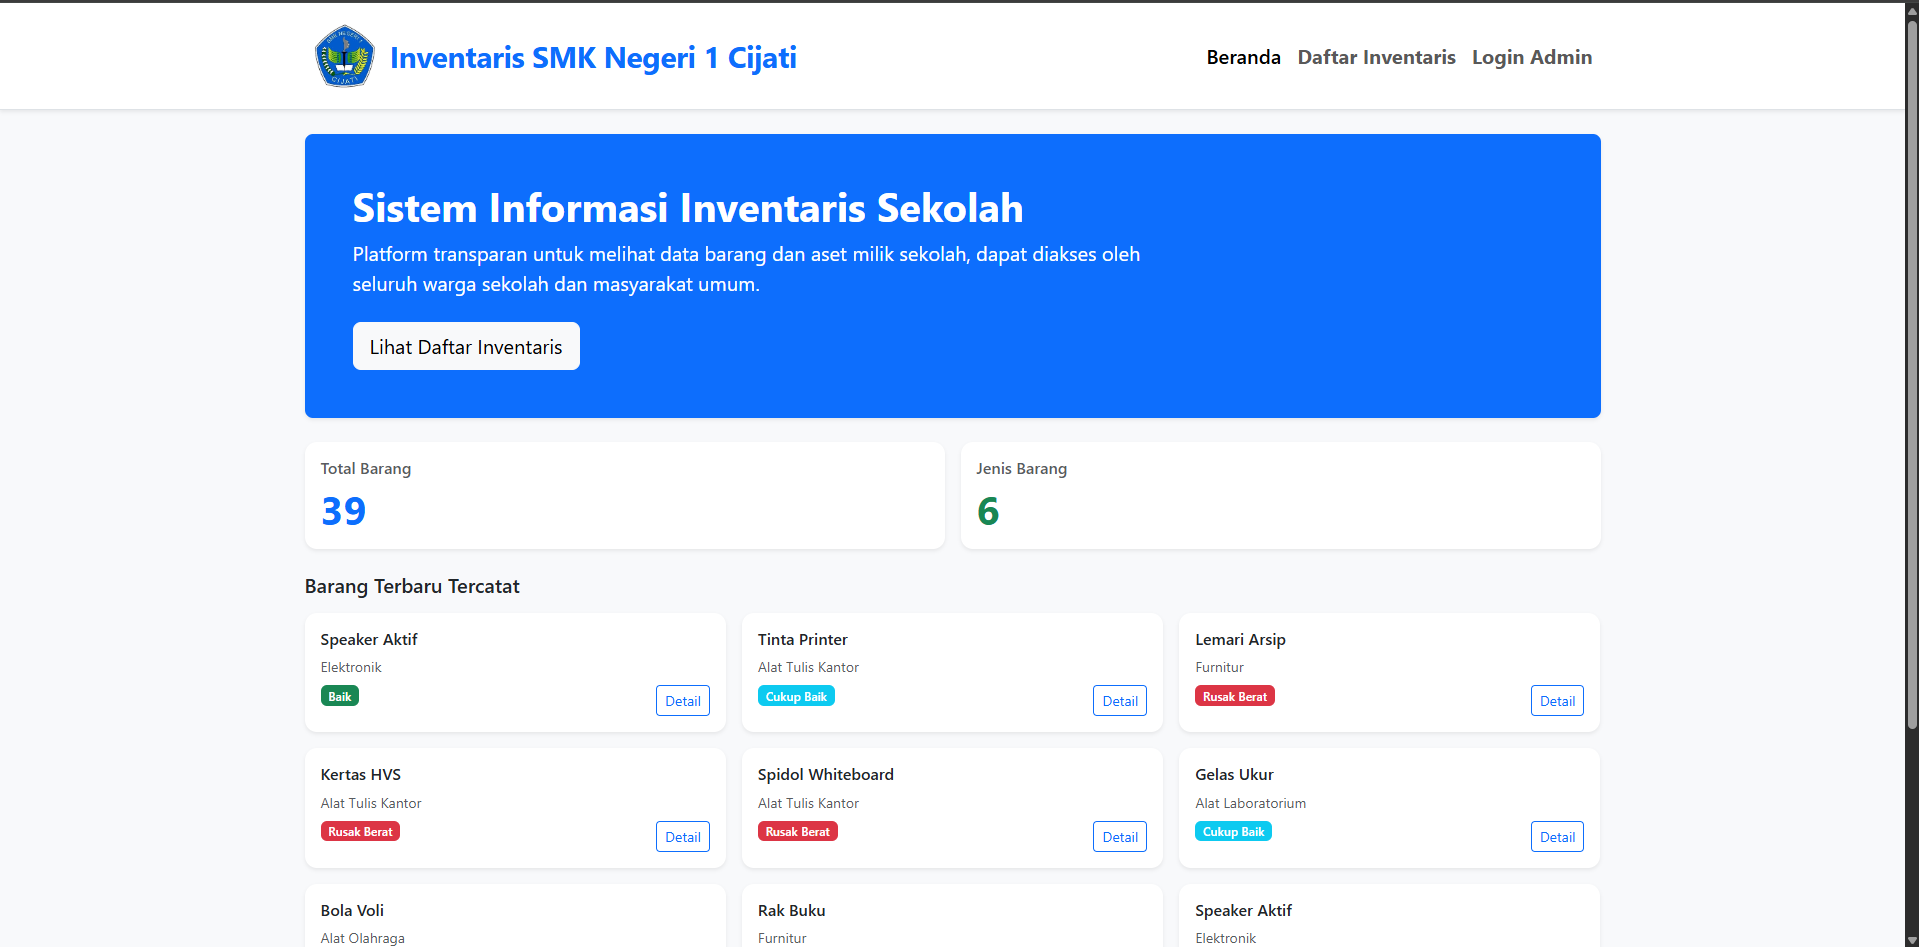
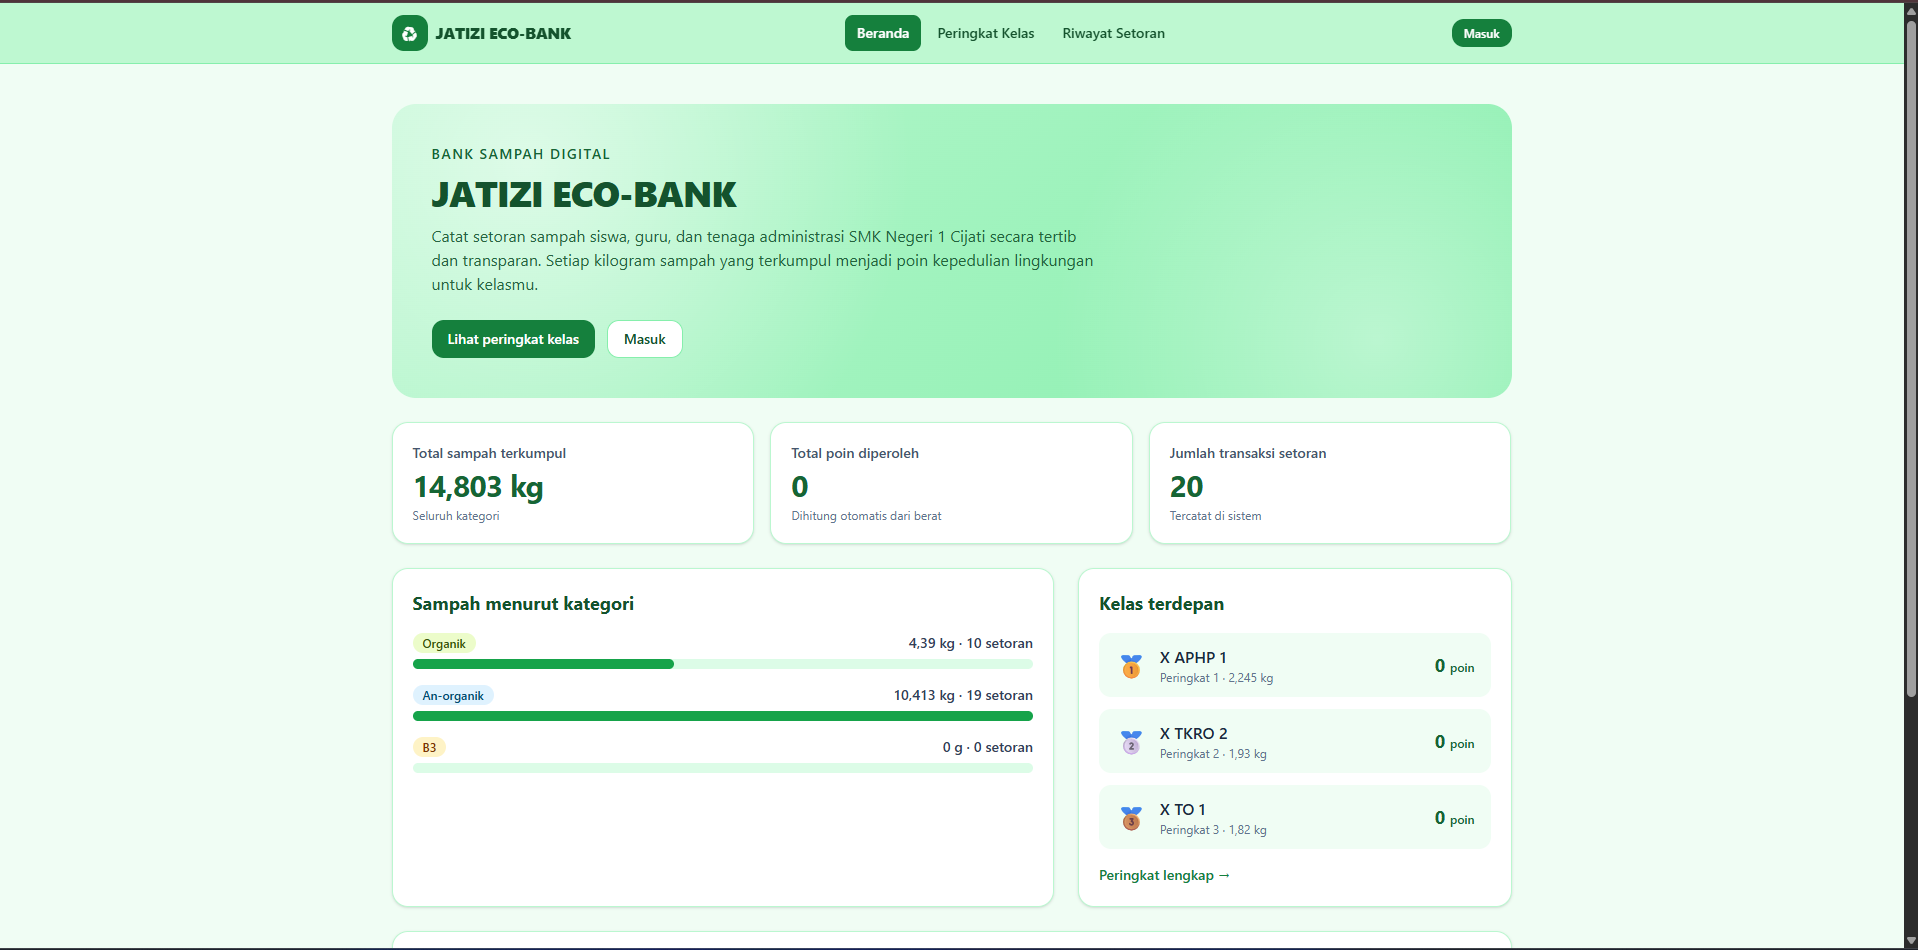
edit project

diff --git a/src/data/projects.js b/src/data/projects.js
@@ -11,7 +11,7 @@ export const PROJECTS = [
     role_id: 'Front-End & Back-End Developer',
     role_en: 'Front-End & Back-End Developer',
     tech: ['Laravel', 'Bootstrap5', 'Laragon', 'MySQL', 'HTML5', 'PHP', 'CSS3', 'JavaScript'],
-    demo: '#',
+    demo: 'https://smkn1cijati.sch.id/',
     code: 'https://github.com/ulwanFM72',
     accent: '#2B4EFF',
     image: projectProfilSekolah,
@@ -30,14 +30,14 @@ export const PROJECTS = [
     image: projectEkstrakurikuler,
   },
   {
-    name_id: 'Inventaris Sekolah',
-    name_en: 'School Inventory System',
-    description_id: 'Aplikasi inventaris sekolah yang dibangun untuk mengelola dan melacak inventaris secara digital, mempermudah proses pengadaan, peminjaman, dan pengembalian barang.',
-    description_en: 'A school inventory application for managing and tracking inventory digitally, simplifying procurement, borrowing, and item returns.',
+    name_id: 'Jatizi eco-bank SMKN 1 Cijati',
+    name_en: 'School recycle trash System',
+    description_id: 'Sistem pengelolaan sampah sekolah yang dibangun untuk mendukung program keberlanjutan dan lingkungan.',
+    description_en: 'A school recycling system for managing and tracking waste digitally, promoting sustainability and environmental awareness.',
     role_id: 'Front-End & Back-End Developer',
     role_en: 'Front-End & Back-End Developer',
     tech: ['Laravel', 'Bootstrap5', 'Laragon', 'MySQL', 'HTML5', 'PHP', 'JavaScript'],
-    demo: '#',
+    demo: 'https://eco-bank.smkn1cijati.sch.id/',
     code: 'https://github.com/ulwanFM72',
     accent: '#C1F73A',
     image: projectInventaris,
